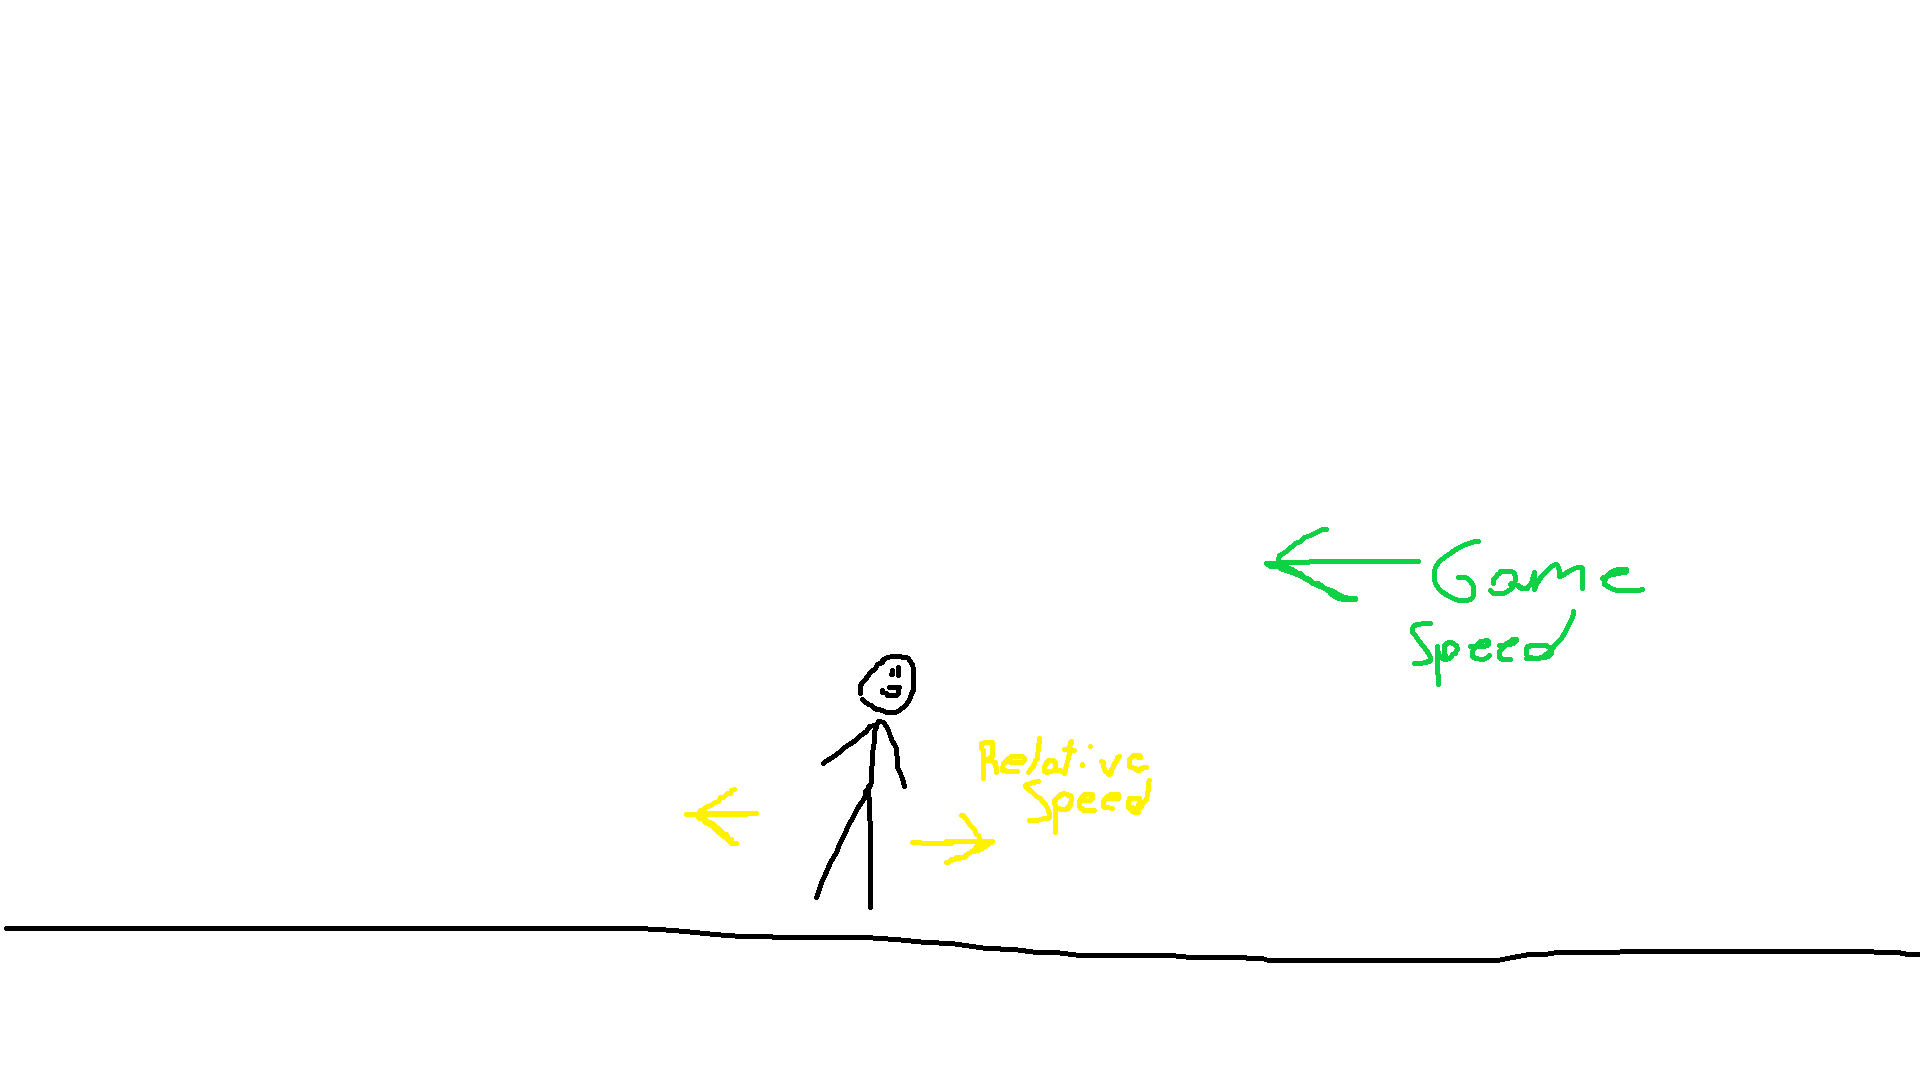
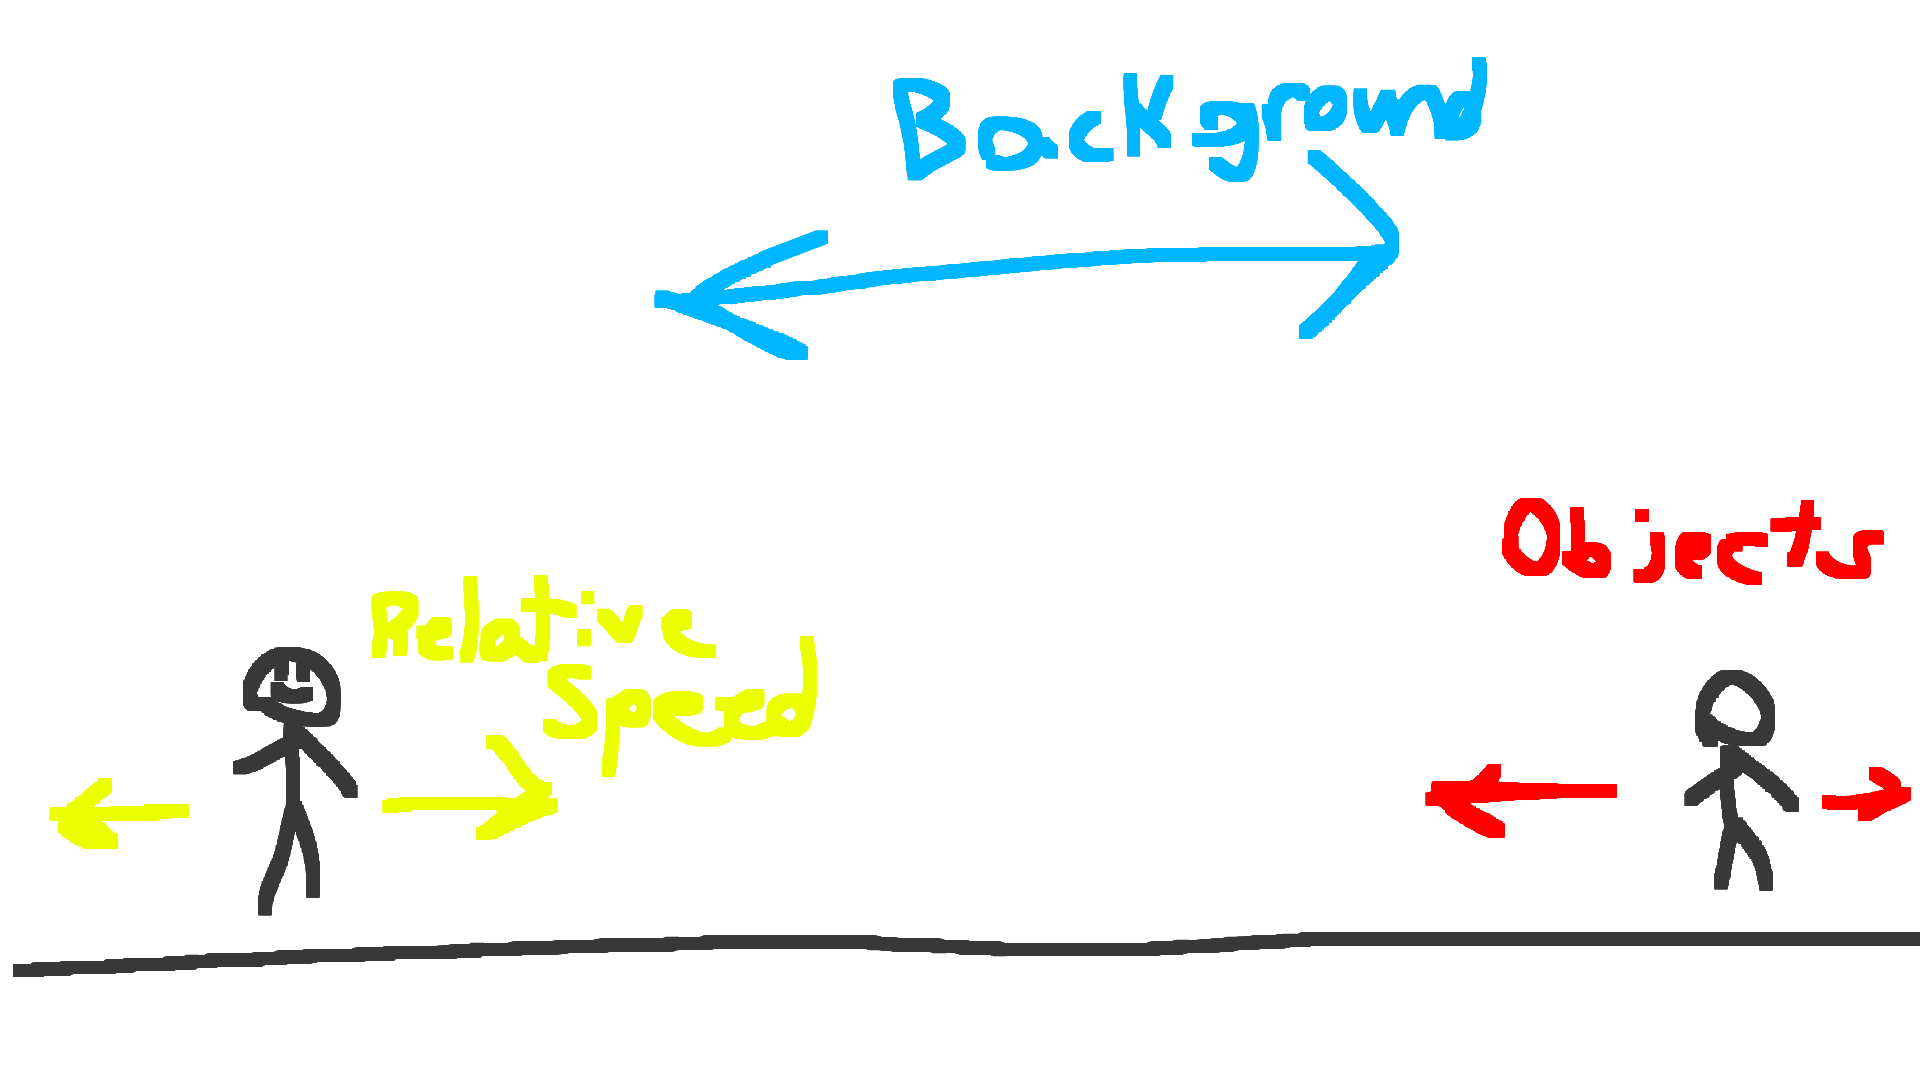
Way too tired to focus.

diff --git a/Assets/Scripts/Base/Object.cs b/Assets/Scripts/Base/Object.cs
@@ -1,4 +1,3 @@
-using System;
 using UnityEngine;
 
 namespace Stickman
@@ -7,76 +6,50 @@ namespace Stickman
     {
         public ScriptableObject Attribute;
 
-        public Character Owner;
         public Animator Animator;
         public Rigidbody2D Body;
         public BoxCollider2D Collider;
         public SpriteRenderer Renderer;
 
-        public bool CanRecieveDamage;
-        public Vector2 LookDirection;
-        public float Health;
+        public bool isInvulnerable;
+        public Vector2 lookDirection;
+        public float health;
 
-        protected virtual void Start()
+        public Vector2 velocity;
+
+        public virtual void Start()
         {
+            /*
             if (Animator == null) Animator = gameObject.GetComponent<Animator>();
             if (Body == null) Body = gameObject.TryGetComponent(out Rigidbody2D RB) ? RB : gameObject.AddComponent<Rigidbody2D>();
             if (Collider == null) Collider = gameObject.TryGetComponent(out BoxCollider2D C) ? C : gameObject.AddComponent<BoxCollider2D>();
             if (Renderer == null) Renderer = gameObject.TryGetComponent(out SpriteRenderer SR) ? SR : gameObject.AddComponent<SpriteRenderer>();
+            */
 
-            Body.isKinematic = false;
-
-            Health = 100f;
+            health = 100f;
         }
 
-        protected virtual void FixedUpdate() { }
+        public virtual void FixedUpdate() { }
 
-        protected virtual void Update() { }
+        public virtual void Update() { }
 
         public void SetAttributes(ScriptableObject attributes) => Attribute = attributes;
 
-        public virtual bool CanDamage(Object obj) => Vector2.Dot(this.LookDirection, obj.LookDirection) < 0f;
+        public virtual bool CanDamage(Object obj) => Vector2.Dot(this.lookDirection, obj.lookDirection) < 0f;
 
         public virtual void TakeDamage(float dmg = 100f)
         {
-            if (CanRecieveDamage)
+            if (isInvulnerable)
             {
-                Health -= dmg;
-                if (Health <= 0f)
+                health -= dmg;
+                if (health <= 0f)
                 {
-                    Health = 0f;
+                    health = 0f;
                     OnKilled();
                 }
             }
         }
 
         public virtual void OnKilled() => Destroy(gameObject);
-
-        public bool HasOwner() => Owner != null;
     }
-
-    /*
-    [CustomEditor(typeof(ScriptableObject))]
-    public class ObjectEditor : Editor
-    {
-        // GUILayoutOption: https://answers.unity.com/questions/702499/what-is-a-guilayoutoption.html
-        public override void OnInspectorGUI()
-        {
-            EditorGUI.BeginChangeCheck();
-
-            var obj = target as ScriptableObject;
-            CreateObjectFields(obj);
-
-            if (EditorGUI.EndChangeCheck())
-                EditorUtility.SetDirty(target); // Save Changes.
-        }
-
-        public static void CreateObjectFields(ScriptableObject obj)
-        {
-            obj.Name = EditorGUILayout.TextField("Name:", obj.Name);
-            obj.LookDirection = EditorGUILayout.Vector2IntField("Look Direction:", obj.LookDirection);
-            obj.Sprite = EditorGUILayout.ObjectField("Sprite:", obj.Sprite, typeof(Sprite), false) as Sprite;
-        }
-    }
-    */
 }

diff --git a/Assets/Scripts/Items/Weapon.cs b/Assets/Scripts/Items/Weapon.cs
@@ -8,16 +8,16 @@ namespace Stickman
 
         public Vector2 Velocity;
 
-        protected override void Start()
+        public override void Start()
         {
             base.Start();
 
             WeaponAttribute = Attribute as ScriptableWeapon;
         }
 
-        protected override void FixedUpdate()
+        public override void FixedUpdate()
         {
-            if (!this.Usable)
+            if (!this.usable)
             {
                 if (WeaponAttribute.Behavior == ScriptableWeapon.e_Behavior.Projectile)
                 {
@@ -34,14 +34,14 @@ namespace Stickman
 
             if (WeaponAttribute.Behavior == ScriptableWeapon.e_Behavior.Projectile)
             {
-                Owner?.Unequip(this);
+                owner?.Unequip(this);
                 Velocity = GetInitialVelocity();
             }
         }
 
         private void OnTriggerEnter2D(Collider2D collision)
         {
-            if (this.Usable)
+            if (this.usable)
             {
                 if (collision.gameObject.TryGetComponent<Object>(out Object obj))
                 {
@@ -63,7 +63,7 @@ namespace Stickman
         {
             var velocity = WeaponAttribute.ThrowVelocity;
 
-            if (LookDirection.x == Vector2.left.x)
+            if (lookDirection.x == Vector2.left.x)
             {
                 velocity.x = -velocity.x;
                 velocity.x -= Game.Speed * 0.25f;

diff --git a/Assets/Scripts/Base/Character.cs b/Assets/Scripts/Base/Character.cs
@@ -16,9 +16,7 @@ namespace Stickman
 
         public bool isGrounded;
 
-        public Vector2 relativeVelocity;
-
-        protected override void Start()
+        public override void Start()
         {
             base.Start();
 
@@ -31,7 +29,7 @@ namespace Stickman
             //Game.Give("Fists", this);
         }
 
-        protected override void FixedUpdate()
+        public override void FixedUpdate()
         {
             if(isGrounded)
             {
@@ -50,7 +48,7 @@ namespace Stickman
 
         public void Equip(Item obj, bool make_active = false)
         {
-            if(obj.HasOwner())
+            if(obj.owner != null)
                 return;
 
             if(!inventory.Add(obj))
@@ -61,15 +59,15 @@ namespace Stickman
 
             obj.transform.parent = this.transform;
             obj.transform.position = this.transform.position;
-            obj.LookDirection = this.LookDirection;
-            obj.Owner = this;
+            obj.lookDirection = this.lookDirection;
+            obj.owner = this;
         }
 
         public void Unequip(Item obj, bool throw_object = false)
         {
             inventory.Remove(obj, out activeItem);
             obj.transform.parent = null;
-            obj.Owner = null;
+            obj.owner = null;
         }
 
         protected virtual void OnCollisionEnter2D(Collision2D collision)

diff --git a/Assets/Scripts/Characters/Enemy.cs b/Assets/Scripts/Characters/Enemy.cs
@@ -9,21 +9,21 @@ namespace Stickman
         public float MeleeRange = 1f;
         public float ThrowRange = 10f;
 
-        protected override void Start()
+        public override void Start()
         {
             base.Start();
 
             //Renderer.flipX = true; // TODO: Fix Error
 
-            CanRecieveDamage = true;
-            LookDirection = Vector2.left;
+            isInvulnerable = true;
+            lookDirection = Vector2.left;
         }
 
-        protected override void FixedUpdate()
+        public override void FixedUpdate()
         {
             base.FixedUpdate();
 
-            transform.Translate(Game.Speed * Time.fixedDeltaTime * LookDirection);
+            transform.Translate(Game.Speed * Time.fixedDeltaTime * lookDirection);
 
             var dist = Vector2.Distance(transform.position, Target.transform.position);
             if (dist <= ThrowRange)

diff --git a/Assets/Scripts/Characters/Player.cs b/Assets/Scripts/Characters/Player.cs
@@ -4,15 +4,15 @@ namespace Stickman
 {
     public class Player : Character
     {
-        protected override void Start()
+        public override void Start()
         {
             base.Start();
 
-            CanRecieveDamage = true;
-            LookDirection = Vector2.right;
+            isInvulnerable = true;
+            lookDirection = Vector2.right;
         }
 
-        protected override void Update()
+        public override void Update()
         {
             if(Input.GetKeyDown(KeyCode.C)) { Game.Give("Bottle", this); }
             if(Input.GetKeyDown(KeyCode.X)) { Game.SpawnObject("Enemy", Vector2.right * 16f); }

diff --git a/Assets/Scripts/Objects/Background.cs b/Assets/Scripts/Objects/Background.cs
@@ -1,0 +1,25 @@
+using UnityEngine;
+
+namespace Stickman
+{
+    public class Background : Object
+    {
+        private readonly float repeatWidth = 40.96f;
+        private Vector2 initalPos;
+
+        public override void Start()
+        {
+            initalPos = transform.position;
+        }
+
+        public override void FixedUpdate()
+        {
+            transform.Translate(Game.Player.velocity * Time.deltaTime * Vector3.left);
+
+            if (transform.position.x < initalPos.x - repeatWidth)
+            {
+                transform.position = initalPos;
+            }
+        }
+    }
+}

diff --git a/Assets/Scripts/Base/Item.cs b/Assets/Scripts/Base/Item.cs
@@ -1,15 +1,15 @@
-using System;
-using UnityEditor;
 using UnityEngine;
 
 namespace Stickman
 {
     public class Item : Object
     {
-        public bool Usable;
-        public bool Pickupable;
+        public Character owner;
 
-        protected override void Start()
+        public bool usable;
+        public bool pickupable;
+
+        public override void Start()
         {
             base.Start();
 
@@ -22,7 +22,7 @@ namespace Stickman
 
         public virtual void Use()
         {
-            if(Usable) {Usable = false;}
+            if(usable) {usable = false;}
         }
     }
 

diff --git a/Assets/Scripts/Objects/Obstacle.cs b/Assets/Scripts/Objects/Obstacle.cs
@@ -9,12 +9,12 @@ namespace Stickman
         private void Awake()
         {
             transform.position = new Vector2(InitalXPos, transform.position.y); // Prefabs will fix this
-            LookDirection = Vector2.left;
+            lookDirection = Vector2.left;
         }
 
-        protected override void FixedUpdate()
+        public override void FixedUpdate()
         {
-            transform.Translate(Game.Speed * Time.deltaTime * LookDirection);
+            transform.Translate(Game.Speed * Time.deltaTime * lookDirection);
         }
     }
 }

diff --git a/Assets/Scripts/Items/Gadget.cs b/Assets/Scripts/Items/Gadget.cs
@@ -6,7 +6,7 @@ namespace Stickman
     {
         public ScriptableItem ItemAttribute;
 
-        protected override void Start()
+        public override void Start()
         {
             base.Start();
 
